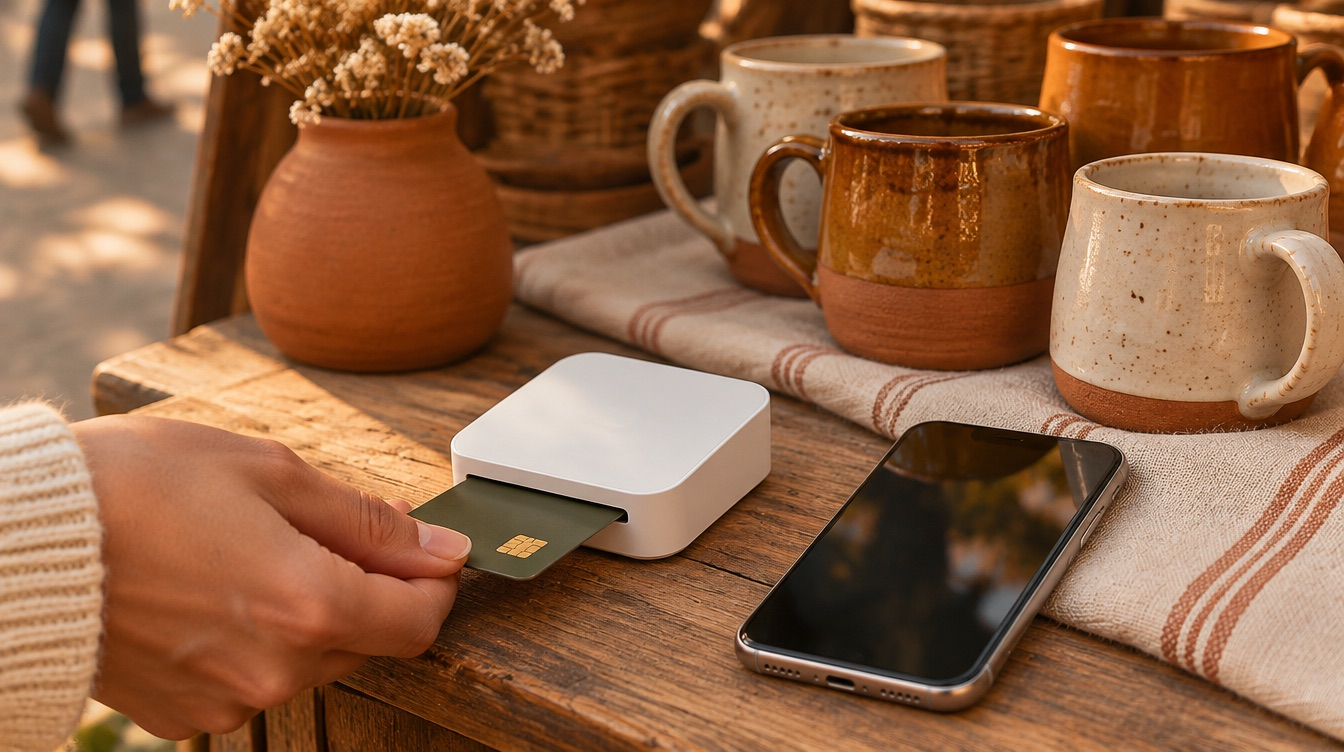
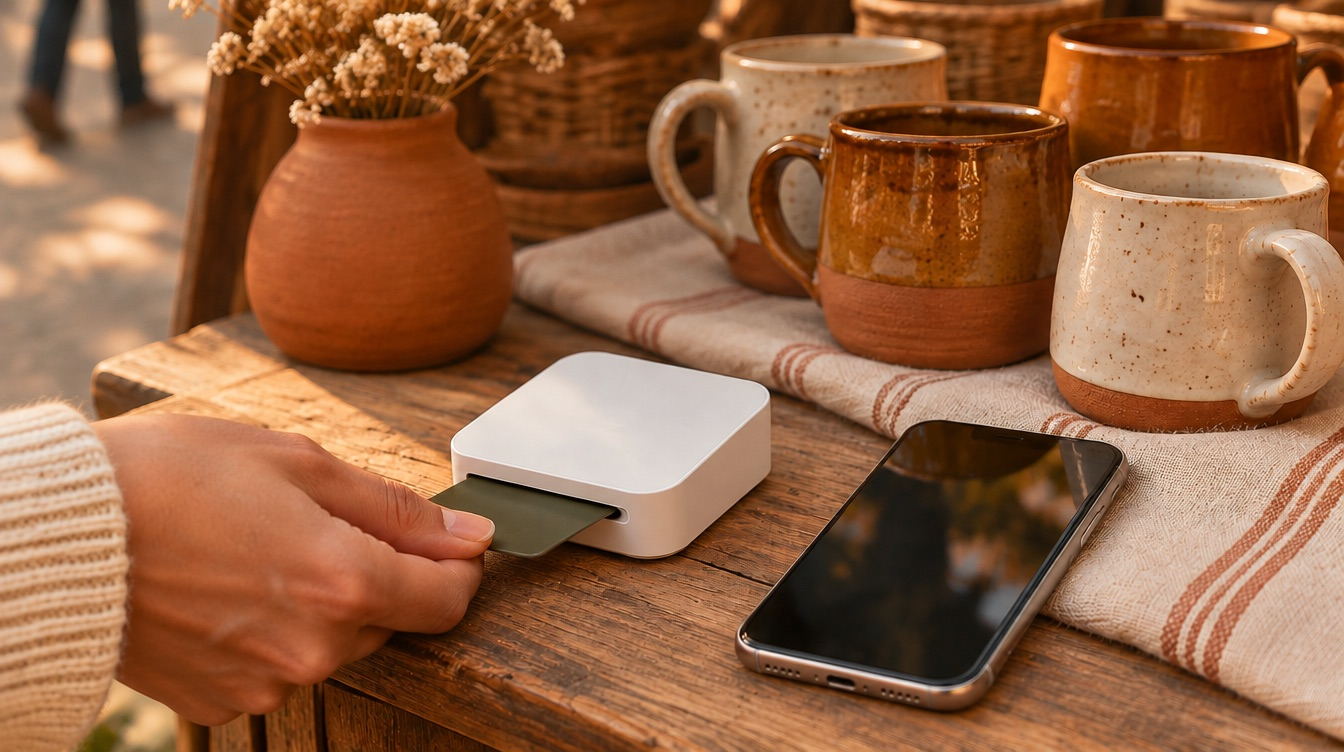
Make the On the go setup photos look like real card payments

diff --git a/scripts/content/50-on-the-go-photos.php b/scripts/content/50-on-the-go-photos.php
@@ -23,9 +23,9 @@ require_once dirname(__DIR__) . '/setup/_helpers.php';
 // Key => [file, width, height, alt text].
 $photos = [
   'hero' => ['hero.jpg', 1168, 880, 'A vendor at an outdoor farmers market holds out a small card reader as a customer taps a card.'],
-  'tap' => ['tap.jpg', 1344, 752, 'A customer taps a card on the back of a stallholder\'s phone, which shows the amount to pay.'],
-  'reader' => ['reader.jpg', 1344, 752, 'A customer inserts a chip card into a small reader beside a phone on a market table of handmade mugs.'],
-  'handheld' => ['handheld.jpg', 1344, 752, 'A shop worker holds a handheld terminal printing a receipt at curbside pickup.'],
+  'tap' => ['tap.jpg', 1344, 752, 'A customer holds a card to the back of a stallholder\'s phone to pay at a market stall.'],
+  'reader' => ['reader.jpg', 1344, 752, 'A customer dips a card into a small reader beside a phone on a market table of handmade mugs.'],
+  'handheld' => ['handheld.jpg', 1344, 752, 'A shop worker holds a handheld terminal as it prints a receipt at curbside pickup.'],
   'field' => ['field.jpg', 1024, 688, 'A cook hands a card terminal out of a food truck window to a smiling customer.'],
 ];
 

diff --git a/scripts/content/assets/on-the-go/README.md b/scripts/content/assets/on-the-go/README.md
@@ -1,6 +1,6 @@
 # On the go page photos
 
-Five photos for `/solutions/on-the-go`, generated on 2026-11-19 with Higgsfield (model `gpt_image_2_6`) and converted to JPEG. They are illustrations, not photographs of real customers, staff or businesses: the people in them do not exist. The devices are generic and nothing carries a brand. The $24.00 on the phone in `tap.jpg` is an illustration, not a price.
+Five photos for `/solutions/on-the-go`, generated on 2026-11-19 with Higgsfield (model `gpt_image_2_6`) and converted to JPEG. They are illustrations, not photographs of real customers, staff or businesses: the people in them do not exist. The devices are generic and nothing carries a brand.
 
 Each was prompted for the site's palette (clay, amber, cream, warm wood) in warm light, so no filter is applied on the page.
 
